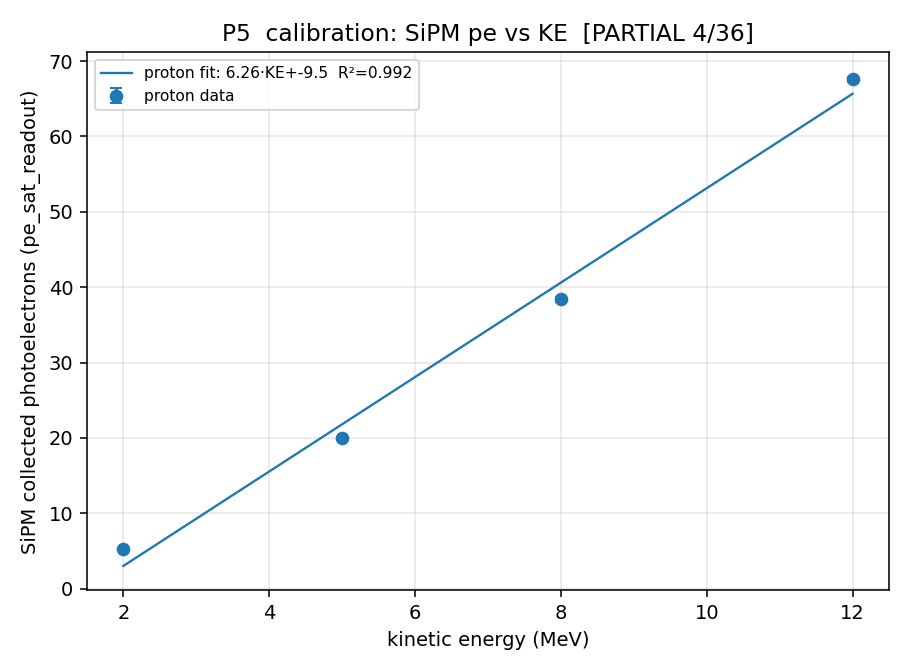
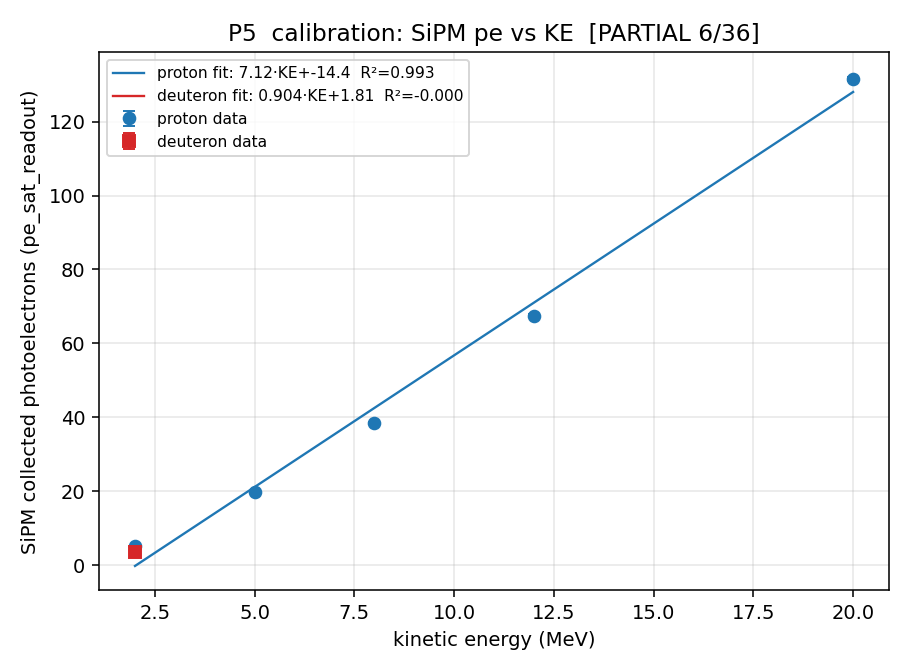
issue #885: refresh partial plots+SUMMARY (12/72: proton 2-20MeV, deuteron 2MeV)
Headline result: at 2 MeV the deuteron is Birks-quenched more than the proton
(quench 0.154 vs 0.221, d/p=0.70) due to its higher dE/dx Bragg deposit -- the
physical reason separate p/d calibration curves are required. Proton quench
weakens monotonically 0.221->0.572 over 2-20 MeV. Proton SiPM calibration
7.12 pe/MeV (R^2=0.993). Full 72-point set + complete plots land automatically
via post-job 3408770 (afterany:3408050).

diff --git a/geant4/single_stave/results/i885_v1/SUMMARY.md b/geant4/single_stave/results/i885_v1/SUMMARY.md
@@ -1,6 +1,6 @@
 # Issue #885 — single-stave proton/deuteron calibration campaign (v1)
 
-Status: **PARTIAL** — proton main KE-scan plotted from completed files; the full
+Status: **PARTIAL (12/72 files: proton 2-20 MeV + deuteron 2 MeV)** — proton KE-scan + cross-species Birks comparison plotted; the full
 72-point array (job 3408050) is still draining on LUNARC. Plots in this directory
 are regenerated from whatever has landed; re-run the plotter (below) once the
 array finishes for the complete picture.
@@ -33,17 +33,28 @@ entry/exit, scint/WLS/Cerenkov photon counts and per-sensor arrival/detected/pe.
 - Output dir: `/projects/hep/fs10/shared/nnbar/billy/ccb-runs/i885_v1/`
   (one `stave_<part>_<E>MeV_x<hx>_s<seed>.root` + `.meta.json` per point).
 
-## Physics validation (proton, completed subset)
+## Physics validation (completed subset: proton 2-20 MeV + deuteron 2 MeV)
 
-| KE (MeV) | raw edep (MeV) | Birks-visible (MeV) | quench vis/raw | track len (mm) | SiPM pe (readout) |
-|----------|---------------:|--------------------:|---------------:|---------------:|------------------:|
-| 2        | 1.984          | 0.438               | 0.221          | 0.071          | 5.2               |
-| 5        | 4.992          | 1.690               | 0.339          | 0.344          | 19.7              |
-| 12       | 11.996         | 5.800               | 0.483          | 1.625          | 67.5              |
+Seed-averaged per-config means (500 ev/seed, 2 seeds):
 
-Birks suppression weakens with energy (higher-E -> lower dE/dx -> less quench),
-exactly as expected. Proton SiPM calibration (pe_sat_readout vs KE): linear,
-**6.26 pe/MeV, R² = 0.992** (8 files, low-E). Birks-visible vs KE: 0.540 MeV/MeV.
+| species | KE (MeV) | raw edep (MeV) | Birks-visible (MeV) | quench vis/raw | track len (mm) | SiPM pe (readout) |
+|---------|---------:|---------------:|--------------------:|---------------:|---------------:|------------------:|
+| deuteron| 2        | 1.972          | 0.303               | 0.154          | 0.045          | 3.6               |
+| proton  | 2        | 1.984          | 0.438               | 0.221          | 0.071          | 5.2               |
+| proton  | 5        | 4.991          | 1.689               | 0.339          | 0.343          | 20.0              |
+| proton  | 8        | 7.989          | 3.304               | 0.413          | 0.786          | 38.4              |
+| proton  | 12       | 11.996         | 5.802               | 0.483          | 1.626          | 67.6              |
+| proton  | 20       | 19.959         | 11.412              | 0.572          | 4.061          | 131.5             |
+
+At 2 MeV the **deuteron is quenched more strongly than the proton** (0.154 vs
+0.221, d/p = 0.70): its ~half-velocity, higher-dE/dx Bragg deposit suppresses
+more scintillation, and its track is shorter (0.045 vs 0.071 mm). This is the
+physical reason separate p/d calibration curves are required. Proton quench
+weakens monotonically with energy (0.221 -> 0.572 over 2-20 MeV) as dE/dx falls.
+
+Fits (this subset): proton SiPM calibration **7.12 pe/MeV, R^2 = 0.993** (10
+files, 5 energies); Birks-visible vs KE **0.619 MeV/MeV, R^2 = 0.992**. Deuteron
+calibration needs more energies (only 2 MeV landed so far).
 
 ## Plots (this directory)
 
